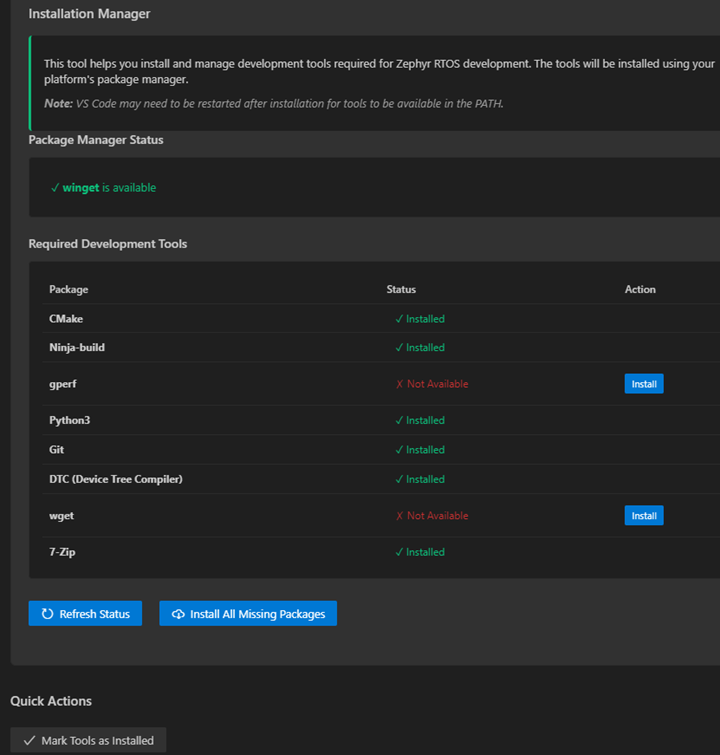
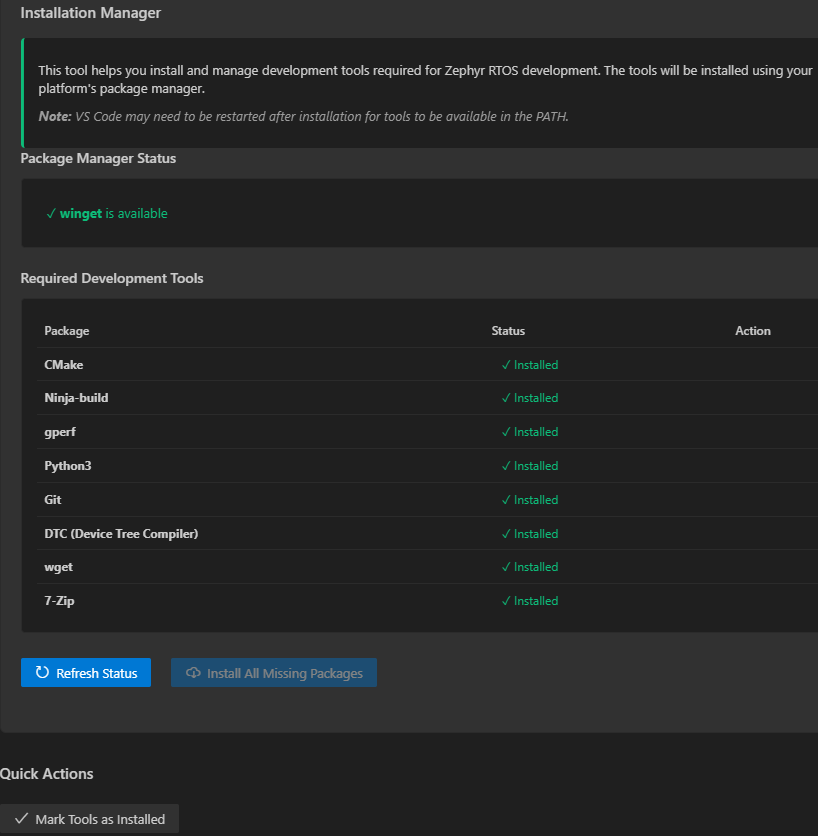
Update VSCode_ZephyrIDE.md

diff --git a/Documents/VSCode_ZephyrIDE.md b/Documents/VSCode_ZephyrIDE.md
@@ -1,0 +1,165 @@
+## Outline
+- [Zephyr Project Setup Guide for Nuvoton NuMicro Cortex-M](#zephyr-project-setup-guide-for-nuvoton-numicro-cortex-m)
+- [Trouble Shooting](#trouble-shooting)
+
+## Zephyr Project Setup Guide for Nuvoton NuMicro Cortex-M
+
+1. Install Required Extension Packs
+
+    Install the following extension packs:
+
+    - **Nuvoton NuMicro Cortex-M Pack**
+    - **Zephyr IDE Extension Pack**
+
+     <p>
+         <img src="https://raw.githubusercontent.com/OpenNuvoton/Nuvoton_Tools/master/img/ZephyrIDE/install_Nuvoton_Pack.png" alt="install_Nuvoton_Pack.png" width="600">
+     </p>
+     <p>
+         <img src="https://raw.githubusercontent.com/OpenNuvoton/Nuvoton_Tools/master/img/ZephyrIDE/install_Zephyr_Pack.png" alt="install_Zephyr_Pack.png" width="600">
+     </p>
+1. Click the Zephyr IDE Configuration option, then click Host Tools to install the environment.
+     <p>
+         <img src="https://raw.githubusercontent.com/OpenNuvoton/Nuvoton_Tools/master/img/ZephyrIDE/setup_configuration.png" alt="setup_configuration.png" width="900">
+     </p>
+1. Need to manually install the winget tool first.
+     <p>
+         <img src="https://raw.githubusercontent.com/OpenNuvoton/Nuvoton_Tools/master/img/ZephyrIDE/install_manager.png" alt="install_manager.png" width="900">
+     </p>
+1. Install the related packages by clicking "install" button according to the status detected by the Zephyr IDE extension.
+     <p>
+         <img src="https://raw.githubusercontent.com/OpenNuvoton/Nuvoton_Tools/master/img/ZephyrIDE/required_development_tools.png" alt="required_development_tools.png" width="900">
+     </p>
+
+1. Select initialize current directory -> create new west.yml -> Full Zephyr.
+After that, wait for a while as the Zephyr Project files and configurations are downloaded and the workspace is created.
+     <p>
+         <img src="https://raw.githubusercontent.com/OpenNuvoton/Nuvoton_Tools/master/img/ZephyrIDE/workspace_setup.png" alt="workspace_setup.png" width="900">
+     </p>
+     <p>
+         <img src="https://raw.githubusercontent.com/OpenNuvoton/Nuvoton_Tools/master/img/ZephyrIDE/create_west_yml.png" alt="create_west_yml.png" width="600">
+     </p>
+     <p>
+         <img src="https://raw.githubusercontent.com/OpenNuvoton/Nuvoton_Tools/master/img/ZephyrIDE/full_zephyr.png" alt="full_zephyr.png" width="300">
+     </p>
+1. Creating a Zephyr Project from Sample Code
+
+    Create a new project using sample code.
+    Choose a project template provided by the Zephyr IDE.
+   <p>
+       <img src="https://raw.githubusercontent.com/OpenNuvoton/Nuvoton_Tools/master/img/ZephyrIDE/select_template.png" alt="select_template.png" width="600">
+   </p>
+
+1. Add a build configuration and choose your target board, e.g., `NuMaker-PFM-M467`.
+   <p>
+       <img src="https://raw.githubusercontent.com/OpenNuvoton/Nuvoton_Tools/master/img/ZephyrIDE/select_board.png" alt="select_board.png" width="600">
+   </p>
+
+1. Add Runner Configuration (OpenOCD)
+  Configure the project runner to use OpenOCD.
+   <p>
+       <img src="https://raw.githubusercontent.com/OpenNuvoton/Nuvoton_Tools/master/img/ZephyrIDE/configuration_complete.png" alt="configuration_complete.png" width="600">
+   </p>
+
+1. Update Zephyr Project Runner Settings
+
+    Go to `View → Command Palette` and run `Update Zephyr Project Runner`. Select the project to update the runner settings and refresh the settings.
+
+   <p>
+       <img src="https://raw.githubusercontent.com/OpenNuvoton/Nuvoton_Tools/master/img/ZephyrIDE/update_setting.png" alt="update_setting.png" width="300">
+   </p>
+   <p>
+       <img src="https://raw.githubusercontent.com/OpenNuvoton/Nuvoton_Tools/master/img/ZephyrIDE/select_project.png" alt="select_project.png" width="300">
+   </p>
+   <p>
+       <img src="https://raw.githubusercontent.com/OpenNuvoton/Nuvoton_Tools/master/img/ZephyrIDE/update_complete.png" alt="update_complete.png" width="600">
+   </p>
+   <p>
+       <img src="https://raw.githubusercontent.com/OpenNuvoton/Nuvoton_Tools/master/img/ZephyrIDE/refresh_settings.png" alt="refresh_settings.png" width="600">
+   </p>
+
+1. Set the target type
+  Please choose the target type for debugging according to the project.
+   <p>
+       <img src="https://raw.githubusercontent.com/OpenNuvoton/Nuvoton_Tools/master/img/ZephyrIDE/select_target_type.png" alt="select_target_type.png" width="600">
+   </p>
+   
+1. Build Project and Flash to Target
+  Use the build button to build and flash the firmware to your target board.
+
+   <p>
+       <img src="https://raw.githubusercontent.com/OpenNuvoton/Nuvoton_Tools/master/img/ZephyrIDE/build_flash.png" alt="build_flash.png" width="300">
+   </p>
+
+1. Create launch.json
+  Create the launch.json file used for debugging.
+
+   <p>
+       <img src="https://raw.githubusercontent.com/OpenNuvoton/Nuvoton_Tools/master/img/ZephyrIDE/create_launch.json.png" alt="create_launch.json.png" width="600">
+   </p>
+
+1. Set the runToEntryPoint (optional)
+  If you don’t want execution to stop at the main function when running in debug mode, set the runToEntryPoint parameter and specify the symbol function where you want it to stop (for example, Zephyr’s execution entry point z_arm_reset; for Nuvoton BSP projects, the entry point is Reset_Handler).
+
+   <p>
+       <img src="https://raw.githubusercontent.com/OpenNuvoton/Nuvoton_Tools/master/img/ZephyrIDE/entrypoint_setting.png" alt="entrypoint_setting.png" width="600">
+   </p>
+
+
+1. Select Debug Settings
+  Select Nuvoton Debug Zephyr.
+
+   <p>
+       <img src="https://raw.githubusercontent.com/OpenNuvoton/Nuvoton_Tools/master/img/ZephyrIDE/select_debug_setting.png" alt="select_debug_setting.png" width="600">
+   </p>
+
+1. Enter Debug Mode and Start Monitor for Output
+  Launch the debugger and open the monitor or terminal to view runtime output.
+
+   <p>
+       <img src="https://raw.githubusercontent.com/OpenNuvoton/Nuvoton_Tools/master/img/ZephyrIDE/add_runner.png" alt="add_runner.png" width="600">
+   </p>
+   <p>
+       <img src="https://raw.githubusercontent.com/OpenNuvoton/Nuvoton_Tools/master/img/ZephyrIDE/debug_and_monitor.png" alt="debug_and_monitor.png" width="600">
+   </p>
+
+## Trouble Shooting
+
+1. Problem with winget tool installation.
+
+   From this webpage (https://github.com/microsoft/winget-cli/releases), download the two files shown in the red box. Please download the appropriate winget version according to your operating system version.
+     <p>
+         <img src="https://raw.githubusercontent.com/OpenNuvoton/Nuvoton_Tools/master/img/ZephyrIDE/download_winget.png" alt="download_winget.png" width="900">
+     </p>
+   First, unzip the ZIP file, go into the x64 folder, open PowerShell, and enter the commands below in order to install the three dependency files:
+
+    winget v1.12
+    ```
+    Add-AppPackage -Path .\Microsoft.VCLibs.140.00.UWPDesktop_14.0.33728.0_x64.appx
+    Add-AppPackage -Path .\Microsoft.VCLibs.140.00_14.0.33519.0_x64.appx
+    Add-AppPackage -Path .\Microsoft.WindowsAppRuntime.1.8_8000.616.304.0_x64.appx
+    ```
+
+    winget v1.11
+    ```
+    Add-AppPackage -Path .\Microsoft.VCLibs.140.00.UWPDesktop_14.0.33728.0_x64.appx
+    Add-AppPackage -Path .\Microsoft.UI.Xaml.2.8_8.2310.30001.0_x64.appx
+    ```
+
+    Then enter the following command to install the winget tool:
+
+    ```
+    Add-AppPackage -Path .\Microsoft.DesktopAppInstaller_8wekyb3d8bbwe.msixbundle
+    ```
+    
+1. Problem with related packages installation.
+
+   If the installation fails, as shown in the red text in the image, you can open the OUTPUT panel in the terminal and select the Zephyr IDE option.
+     <p>
+         <img src="https://raw.githubusercontent.com/OpenNuvoton/Nuvoton_Tools/master/img/ZephyrIDE/install_tool_message.png" alt="install_tool_message.png" width="900">
+     </p>
+   If installing gperf and wget results in error messages, you can manually install them from the terminal by adjusting the parameters:
+
+    ```
+    winget install --accept-package-agreements --accept-source-agreements gperf --source winget
+    winget install --accept-package-agreements --accept-source-agreements wget --source winget
+    ```
